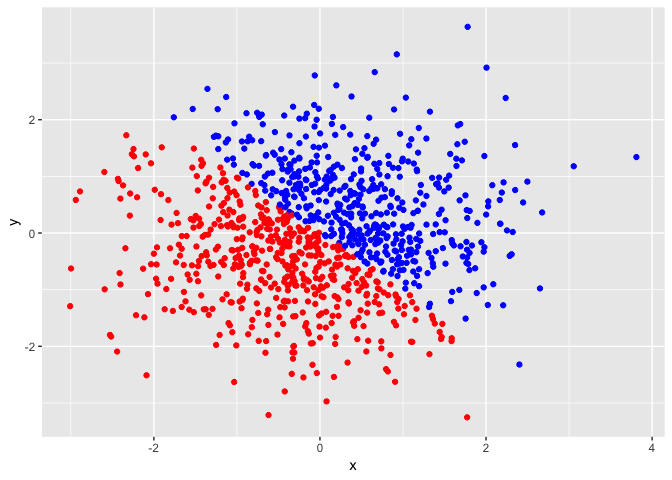
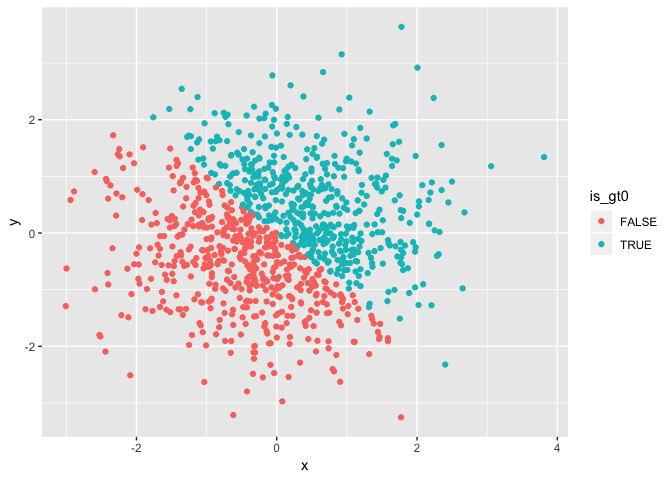
Made some last last changes to the plots for completeness

diff --git a/P8105_HW1_cbp2128.md b/P8105_HW1_cbp2128.md
@@ -146,41 +146,33 @@ The dataframe is too large to display, but we can summarize it. The size of the 
 Data Visualizations
 -------------------
 
-Using `ggplot`, we can plot out the relationship between `x` and `y`. We'd like to differentiate between points where the `x + y` is greater than 0, so we can distinguish between them using a conditional statement. The result is a rough approximation of the Pepsi logo.
+Using `ggplot`, we can plot out the relationship between `x` and `y`. We'd like to differentiate between points where `x + y > 0`, so we can distinguish between them by specifying `is_gt0` in the `col` keyword argument in `aes()`. The result is a rough, pastel approximation of the Pepsi logo.
 
 ``` r
 logical_plot = ggplot(data = data) +
-  geom_point(mapping = aes(x = x, y = y), 
-             col = ifelse(data$is_gt0, "blue", "red")
-             )
+  geom_point(mapping = aes(x = x, y = y, col = is_gt0))
 ```
 
 ![](P8105_HW1_cbp2128_files/figure-markdown_github/p2_plot_1_display-1.png)
 
-The logical vector produces only two colors because there are only two options. Sometimes, it may be useful to actually see the gradient of what our values `x + y` look like, using color.
+The logical vector produces only two colors because there are only two options. We can use other columns to specify the coloring. Below, we use the numeric conversion of the boolean vector `is_gt0_as_num` to specify the coloring scheme. We get different colors, but the legend specifies different points.
 
 ``` r
-# Creates a function to generate proper rgb values between two given colors
-gradient = colorRampPalette(c('red', 'blue'))
-
-# gradient produces 10 colors, and we divide x + y into 10 bins to fit
 ggplot(data = data) +
-  geom_point(mapping = aes(x = x, y = y), 
-             col = gradient(10)[as.numeric(cut(data$x + data$y, breaks = 10))]
-             )
+  geom_point(mapping = aes(x = x, y = y, col = is_gt0_as_num))
 ```
 
 ![](P8105_HW1_cbp2128_files/figure-markdown_github/p2_plot_2-1.png)
 
-Lastly, we can plot out the coloring by the factors. There are only 2 factors, so the resulting plot will look like the first one.
+Since numbers are used to color, R also assumes that there might be some gradient, which shows up in the legend. We only have two values, but any value in between 0 and 1 would have shown up as a blend of blue and black.
+
+Finally, we can plot out the coloring by the factors. There are only 2 factors, so the resulting plot will look like the first two plots.
 
 ``` r
 ggplot(data = data) +
-  geom_point(mapping = aes(x = x, y = y), 
-             col = ifelse(data$is_gt0_factor == 1, "blue", "red")
-             )
+  geom_point(mapping = aes(x = x, y = y, col = is_gt0_factor))
 ```
 
 ![](P8105_HW1_cbp2128_files/figure-markdown_github/p2_plot_3-1.png)
 
-All of the color scales can end up looking the same since we're only looking at binary values (TRUE/FALSE, 0/1 for logical, 1/2 for factor). If we look at the gradient of values produced by `x + y`, then you'll see that the gradient forms along the diagonal due to the normal distribution of both `x` and `y`.
+All of the color scales can end up looking the same since we're only looking at binary sets of values (TRUE/FALSE, 0/1 for logical, 1/2 for factor). The resulting plots only have two colors.
